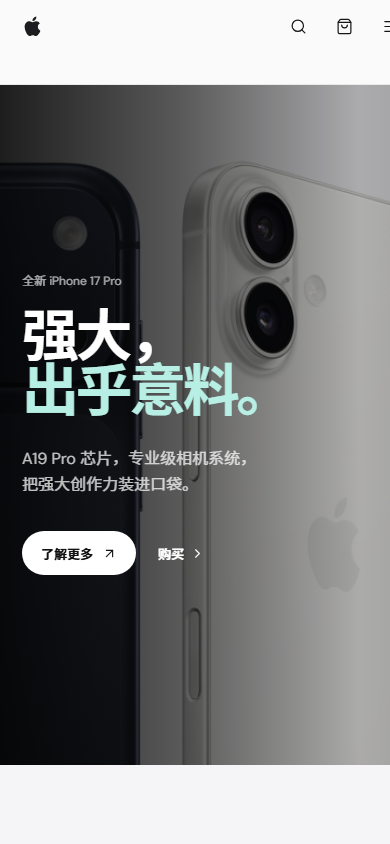
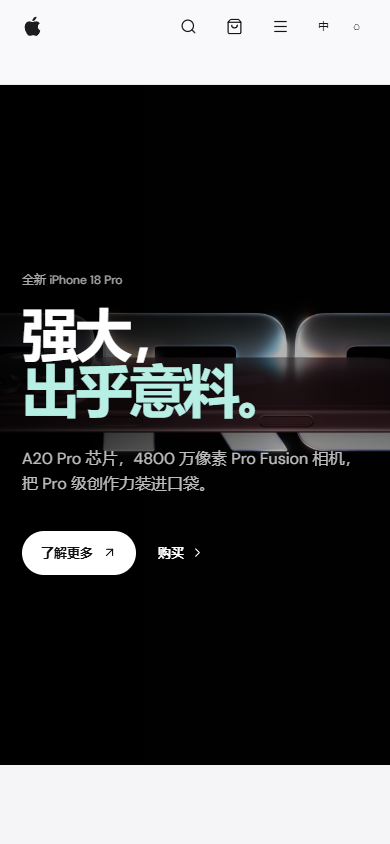
更新 README 产品截图与说明

diff --git a/README.md b/README.md
@@ -1,6 +1,6 @@
 # Apple 2026 Front-end Demo
 
-一个以 Apple 官网为设计参考的纯前端学习项目。项目使用原生 HTML、CSS 与 JavaScript 构建，不依赖构建工具或后端服务，重点演示产品展示、站内购买配置、购物袋、本地化和响应式交互如何协同工作。
+一个以 Apple 官网为设计参考的纯前端学习项目。项目使用原生 HTML、CSS 与 JavaScript 构建，不依赖构建工具或后端服务，重点演示 2026 产品阵容展示、站内购买配置、购物袋、本地化和响应式交互如何协同工作。
 
 > 本项目是独立的前端学习演示，不是 Apple 官方网站，也不代表 Apple Inc.。产品名称、商标和视觉参考归其各自权利人所有。
 
@@ -13,7 +13,7 @@
 
 ### 首页
 
-首页以大幅产品视觉作为首屏入口，包含产品导航、滚动显现、产品横向浏览、外观预览、服务信息和站内购买入口。
+首页以 iPhone 18 Pro 的大幅产品视觉作为首屏入口，展示 iPhone Duo、MacBook Air M5、iPad Pro M5、Apple Watch Series 12 和 AirPods 5，并包含产品导航、滚动显现、产品横向浏览、外观预览、服务信息和站内购买入口。
 
 ![首页展示](docs/screenshots/home.png)
 
@@ -31,7 +31,7 @@
 
 ### 产品详情页
 
-每个产品都有独立的详情页，沿用统一的详情页骨架，同时保留产品自己的视觉重点、核心指标、家族导航和购买入口。
+六个产品都有独立的详情页，沿用统一的详情页骨架，同时保留产品自己的视觉重点、核心指标、家族导航和购买入口。下面的截图均来自当前 2026 产品版本，不再使用旧的 iPhone 17 展示图。
 
 <table>
   <tr>
@@ -44,7 +44,11 @@
   </tr>
   <tr>
     <td><strong>AirPods 5</strong><br><img src="docs/screenshots/airpods-detail.png" alt="AirPods 5 详情页" width="100%"></td>
-    <td><strong>移动端首页</strong><br><img src="docs/screenshots/mobile-home.png" alt="移动端首页" width="100%"></td>
+    <td><strong>iPhone Duo</strong><br><img src="docs/screenshots/iphone-duo-detail.png" alt="iPhone Duo 详情页" width="100%"></td>
+  </tr>
+  <tr>
+    <td><strong>移动端首页</strong><br><img src="docs/screenshots/mobile-home.png" alt="当前 2026 产品阵容的移动端首页" width="100%"></td>
+    <td></td>
   </tr>
 </table>
 
@@ -157,7 +161,7 @@ node --check i18n.js
 git diff --check
 ```
 
-手动检查：首页、五个产品详情页、产品比较页、支持页、理念页和隐私页分别切换简体中文、繁體中文与 English；验证购买配置、购物袋数量修改、删除、结账和模拟下单流程；在桌面端与 375px 左右的移动端检查无横向溢出。
+手动检查：首页、六个产品详情页、产品比较页、支持页、理念页和隐私页分别切换简体中文、繁體中文与 English；验证购买配置、购物袋数量修改、删除、结账和模拟下单流程；在桌面端与 375px 左右的移动端检查无横向溢出。
 
 ## 版权与免责声明
 
